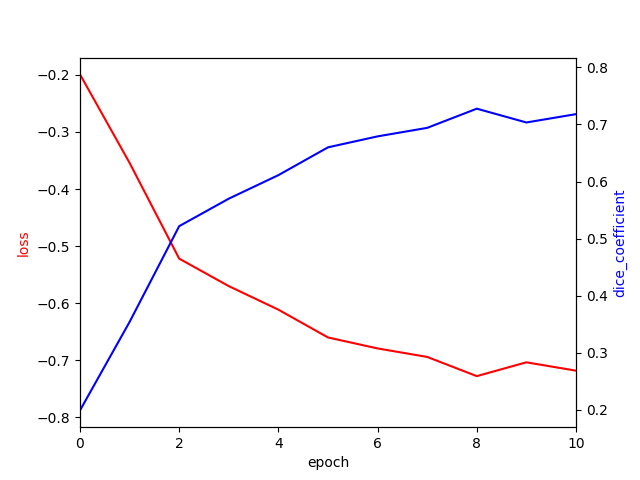
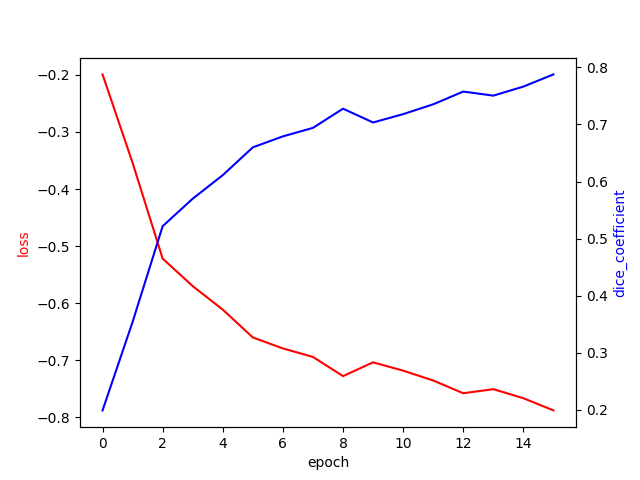
plot history

diff --git a/src/plot.py b/src/plot.py
@@ -32,6 +32,6 @@ ax2.set_xlabel("epoch")
 ax1 = ax2.twinx()
 ax1.plot(epoch, dice_coefficient, color="blue", label="dice coefficient")
 ax1.set_ylabel("dice_coefficient", color="blue")
-plt.xlim(0,10)
+#plt.xlim(0,10)
 
 plt.savefig("docs/loss.png")
